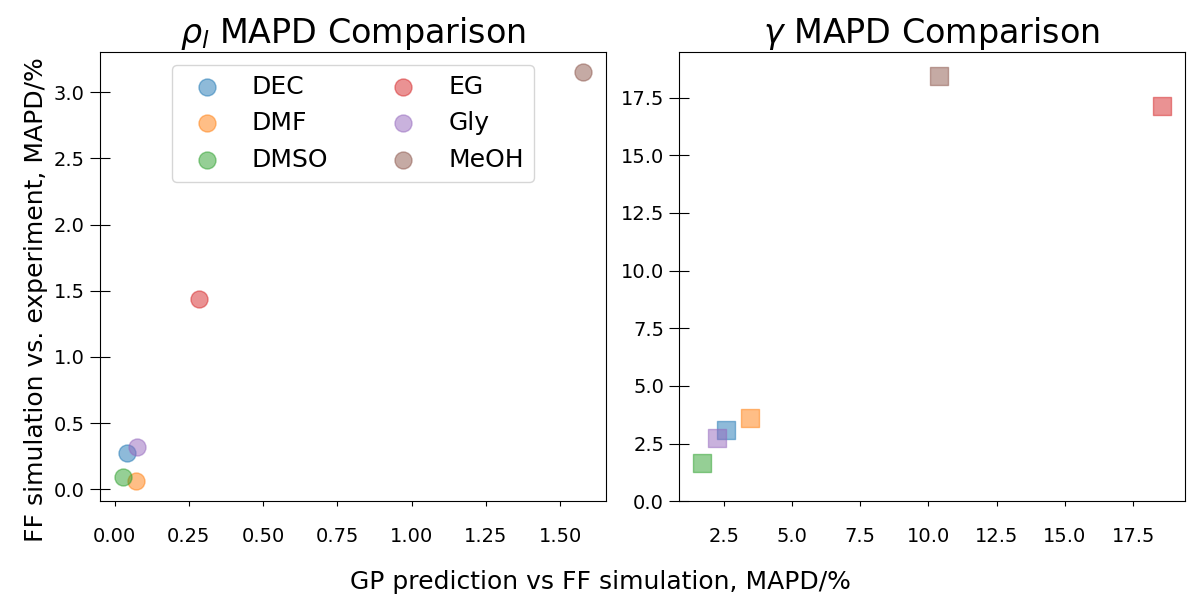
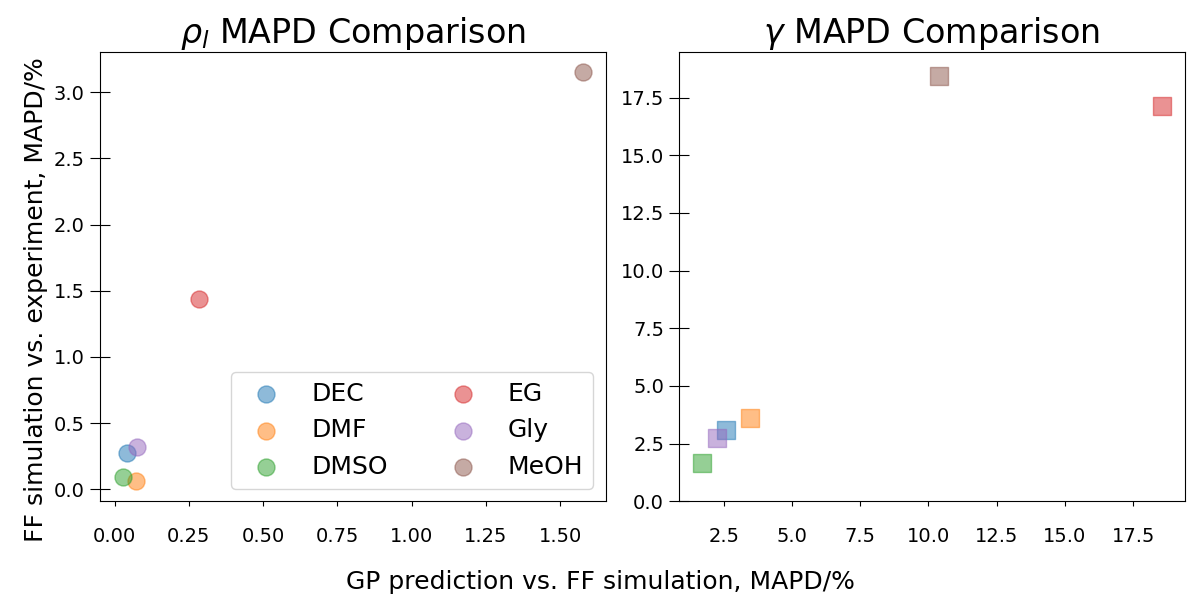
Make the MAPD figure labels use "vs." and move the legend to lower right
- x-axis "vs" -> "vs." so both axis labels match each other and the manuscript,
  which uses "vs." throughout.
- Legend moved from upper center to lower right of the left panel, placing it
  nearer the center of the two-panel figure and clear of the MeOH point.

Applied to all three paths. Data unchanged: MAPD_comp_bestFF.csv still
md5 9d820065b78f68bde290d6612636ca4a.

diff --git a/make_GP_vs_sim_and_sens.py b/make_GP_vs_sim_and_sens.py
@@ -143,14 +143,14 @@ for i, property_name in enumerate(data_df["Property Name"].unique()):
         axes[i].set_ylim(0, max_mapd*1.05)
         # axes[i].set_xlabel(f"GP-Predicted MAPD", fontsize = 18)
     else:
-        axes[i].legend(loc="upper center", fontsize = 18, ncol=2)
+        axes[i].legend(loc="lower right", fontsize = 18, ncol=2)
     axes[i].tick_params("y", direction="inout", which="both", length=7)
     axes[i].tick_params("y", which="major", length=14)
     axes[i].tick_params("x", pad=15)
     #Increase font size of ticks    
     axes[i].tick_params(axis='both', which='major', labelsize=14)
 fig.supylabel('FF simulation vs. experiment, MAPD/%', fontsize=18)
-fig.supxlabel('GP prediction vs FF simulation, MAPD/%', fontsize=18)
+fig.supxlabel('GP prediction vs. FF simulation, MAPD/%', fontsize=18)
 
 plt.tight_layout()
 

diff --git a/scripts/replot_mapd_comparison.py b/scripts/replot_mapd_comparison.py
@@ -38,7 +38,7 @@ DATA_DIR = os.path.join(REPO_ROOT, "Opt_ES", "analysis", "AT-0", "ms_val_opt")
 CSV_PATH = os.path.join(DATA_DIR, "MAPD_comp_bestFF.csv")
 PNG_PATH = os.path.join(DATA_DIR, "MAPD_comp_bestFF.png")
 
-X_LABEL = "GP prediction vs FF simulation, MAPD/%"
+X_LABEL = "GP prediction vs. FF simulation, MAPD/%"
 Y_LABEL = "FF simulation vs. experiment, MAPD/%"
 
 
@@ -69,7 +69,7 @@ def main():
         if i == 1:
             axes[i].set_ylim(0, max_mapd * 1.05)
         else:
-            axes[i].legend(loc="upper center", fontsize=18, ncol=2)
+            axes[i].legend(loc="lower right", fontsize=18, ncol=2)
         axes[i].tick_params("y", direction="inout", which="both", length=7)
         axes[i].tick_params("y", which="major", length=14)
         axes[i].tick_params("x", pad=15)
